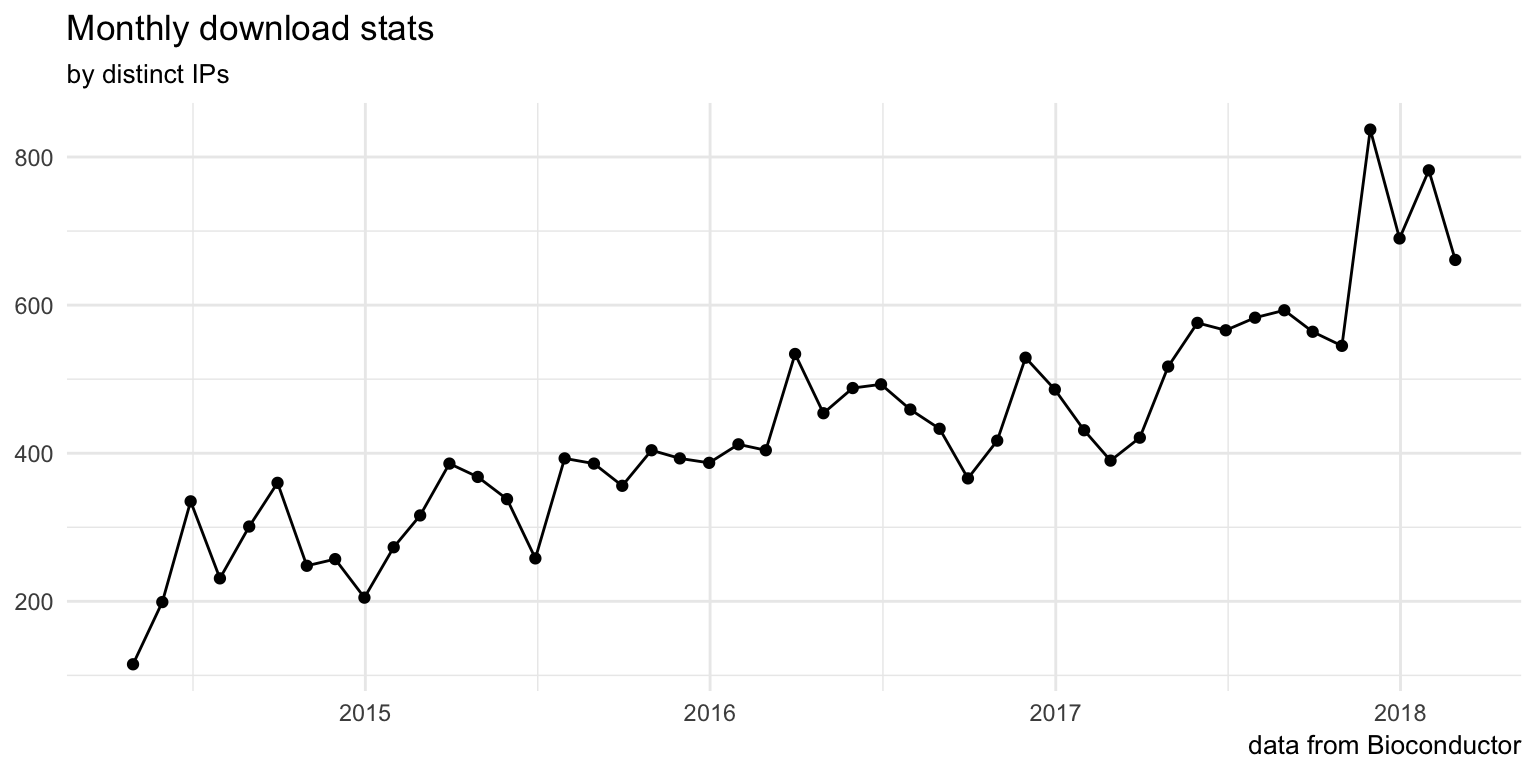
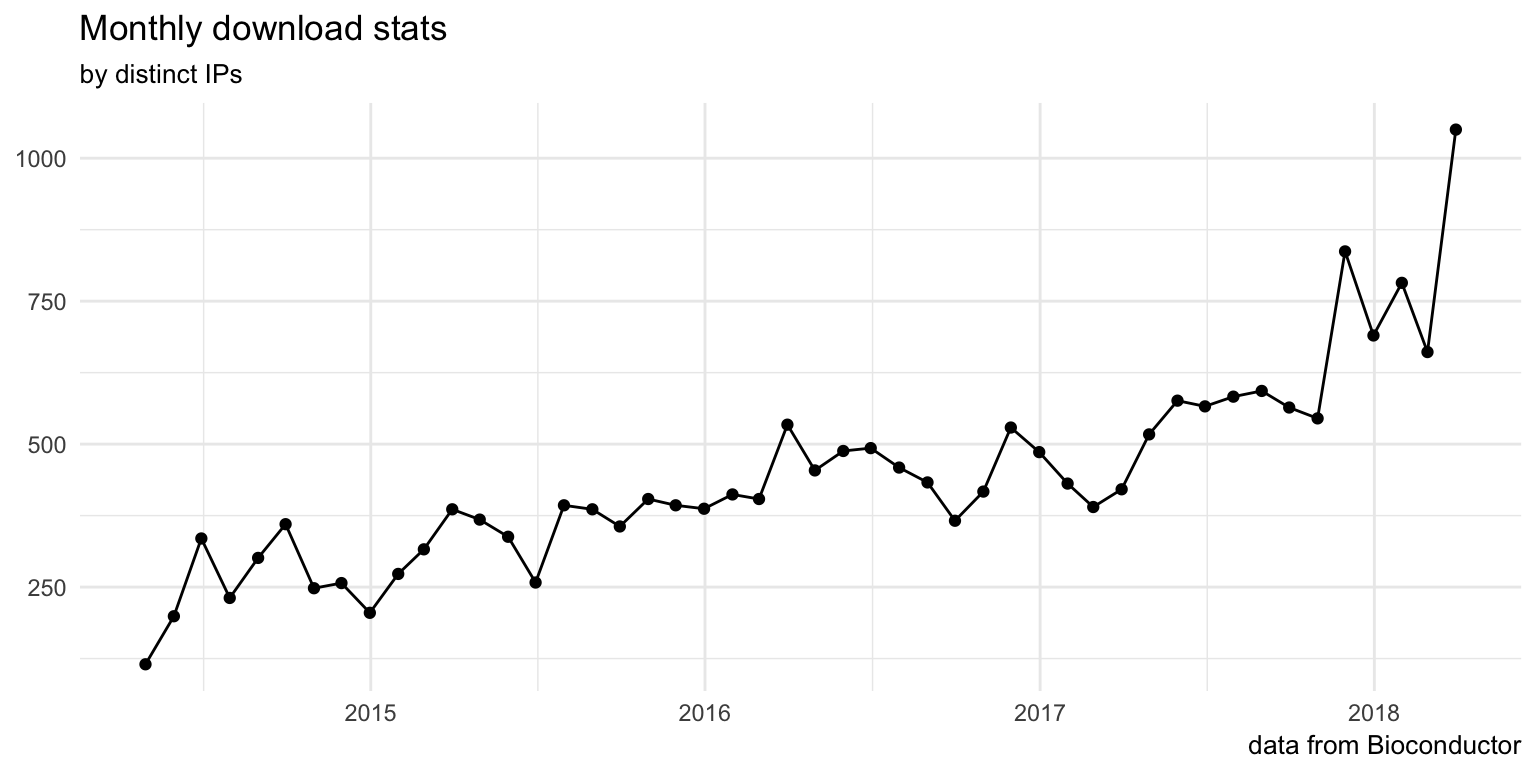
chipseeker citation

diff --git a/wChIPseeker/content/index.html b/wChIPseeker/content/index.html
@@ -9,17 +9,18 @@ weight: 1
 
 <p><img src="https://raw.githubusercontent.com/Bioconductor/BiocStickers/master/ChIPseeker/ChIPseeker.png" height="200" align="right" /></p>
 <p><link rel="stylesheet" href="https://guangchuangyu.github.io/css/font-awesome.min.css"> <link rel="stylesheet" href="https://guangchuangyu.github.io/css/academicons.min.css"></p>
-<p><a href="https://bioconductor.org/packages/ChIPseeker"><img src="https://img.shields.io/badge/release%20version-1.14.2-blue.svg?style=flat" alt="releaseVersion" /></a> <a href="https://github.com/guangchuangyu/ChIPseeker"><img src="https://img.shields.io/badge/devel%20version-1.15.4-blue.svg?style=flat" alt="develVersion" /></a> <a href="https://bioconductor.org/packages/stats/bioc/ChIPseeker"><img src="https://img.shields.io/badge/downloads-20573/total-blue.svg?style=flat" alt="total" /></a> <a href="https://bioconductor.org/packages/stats/bioc/ChIPseeker"><img src="https://img.shields.io/badge/downloads-661/month-blue.svg?style=flat" alt="month" /></a></p>
+<p><a href="https://bioconductor.org/packages/ChIPseeker"><img src="https://img.shields.io/badge/release%20version-1.14.2-blue.svg?style=flat" alt="releaseVersion" /></a> <a href="https://github.com/guangchuangyu/ChIPseeker"><img src="https://img.shields.io/badge/devel%20version-1.15.5-blue.svg?style=flat" alt="develVersion" /></a> <a href="https://bioconductor.org/packages/stats/bioc/ChIPseeker"><img src="https://img.shields.io/badge/downloads-21312/total-blue.svg?style=flat" alt="total" /></a> <a href="https://bioconductor.org/packages/stats/bioc/ChIPseeker"><img src="https://img.shields.io/badge/downloads-1050/month-blue.svg?style=flat" alt="month" /></a></p>
 <p>This package implements functions to retrieve the nearest genes around the peak, annotate genomic region of the peak, statstical methods for estimate the significance of overlap among ChIP peak data sets, and incorporate GEO database for user to compare their own dataset with those deposited in database. The comparison can be used to infer cooperative regulation and thus can be used to generate hypotheses. Several visualization functions are implemented to summarize the coverage of the peak experiment, average profile and heatmap of peaks binding to TSS regions, genomic annotation, distance to TSS, and overlap of peaks or genes.</p>
 <p><code>ChIPseeker</code> is released within the <a href="https://www.bioconductor.org/packages/ChIPseeker">Bioconductor</a> project and the source code is hosted on <a href="https://github.com/GuangchuangYu/ChIPseeker"><i class="fa fa-github fa-lg"></i> GitHub</a>.</p>
 <div id="author" class="section level2">
 <h2><i class="fa fa-user"></i> Author</h2>
 <p>Guangchuang Yu, School of Public Health, The University of Hong Kong.</p>
+<p><a href="https://saythanks.io/to/GuangchuangYu"><img src="https://img.shields.io/badge/say-thanks-ff69b4.svg" alt="saythanks" /></a> <a href="https://guangchuangyu.github.io/blog_images/biobabble.jpg"><embed src="https://img.shields.io/badge/follow%20me%20on-微信-green.svg?style=flat" /></a> <a href="https://guangchuangyu.github.io/blog_images/pay_qrcode.png"><embed src="https://img.shields.io/badge/打赏-支付宝/微信-green.svg?style=flat" /></a></p>
 </div>
 <div id="citation" class="section level2">
 <h2><i class="fa fa-book"></i> Citation</h2>
 <p>Please cite the following article when using <code>ChIPseeker</code>:</p>
-<p><a href="http://dx.doi.org/10.1093/bioinformatics/btv145"><img src="https://img.shields.io/badge/doi-10.1093/bioinformatics/btv145-blue.svg?style=flat" alt="doi" /></a> <a href="https://www.altmetric.com/details/3781087"><img src="https://img.shields.io/badge/Altmetric-32-blue.svg?style=flat" alt="Altmetric" /></a> <a href="https://scholar.google.com.hk/scholar?oi=bibs&amp;hl=en&amp;cites=12053363057899219488"><img src="https://img.shields.io/badge/cited%20by-107-blue.svg?style=flat" alt="citation" /></a></p>
+<p><a href="http://dx.doi.org/10.1093/bioinformatics/btv145"><img src="https://img.shields.io/badge/doi-10.1093/bioinformatics/btv145-blue.svg?style=flat" alt="doi" /></a> <a href="https://www.altmetric.com/details/3781087"><img src="https://img.shields.io/badge/Altmetric-32-blue.svg?style=flat" alt="Altmetric" /></a> <a href="https://scholar.google.com.hk/scholar?oi=bibs&amp;hl=en&amp;cites=12053363057899219488"><img src="https://img.shields.io/badge/cited%20by-113-blue.svg?style=flat" alt="citation" /></a></p>
 <p><strong>Yu G</strong>, Wang LG and He QY<sup>*</sup>. ChIPseeker: an R/Bioconductor package for ChIP peak annotation, comparison and visualization. <strong><em>Bioinformatics</em></strong>, 2015, 31(14):2382-2383.</p>
 </div>
 <div id="featured-articles" class="section level2">

diff --git a/docs/ChIPseeker/index.html b/docs/ChIPseeker/index.html
@@ -288,17 +288,18 @@
 
 			<p><img src="https://raw.githubusercontent.com/Bioconductor/BiocStickers/master/ChIPseeker/ChIPseeker.png" height="200" align="right" /></p>
 <p><link rel="stylesheet" href="https://guangchuangyu.github.io/css/font-awesome.min.css"> <link rel="stylesheet" href="https://guangchuangyu.github.io/css/academicons.min.css"></p>
-<p><a href="https://bioconductor.org/packages/ChIPseeker"><img src="https://img.shields.io/badge/release%20version-1.14.2-blue.svg?style=flat" alt="releaseVersion" /></a> <a href="https://github.com/guangchuangyu/ChIPseeker"><img src="https://img.shields.io/badge/devel%20version-1.15.4-blue.svg?style=flat" alt="develVersion" /></a> <a href="https://bioconductor.org/packages/stats/bioc/ChIPseeker"><img src="https://img.shields.io/badge/downloads-20573/total-blue.svg?style=flat" alt="total" /></a> <a href="https://bioconductor.org/packages/stats/bioc/ChIPseeker"><img src="https://img.shields.io/badge/downloads-661/month-blue.svg?style=flat" alt="month" /></a></p>
+<p><a href="https://bioconductor.org/packages/ChIPseeker"><img src="https://img.shields.io/badge/release%20version-1.14.2-blue.svg?style=flat" alt="releaseVersion" /></a> <a href="https://github.com/guangchuangyu/ChIPseeker"><img src="https://img.shields.io/badge/devel%20version-1.15.5-blue.svg?style=flat" alt="develVersion" /></a> <a href="https://bioconductor.org/packages/stats/bioc/ChIPseeker"><img src="https://img.shields.io/badge/downloads-21312/total-blue.svg?style=flat" alt="total" /></a> <a href="https://bioconductor.org/packages/stats/bioc/ChIPseeker"><img src="https://img.shields.io/badge/downloads-1050/month-blue.svg?style=flat" alt="month" /></a></p>
 <p>This package implements functions to retrieve the nearest genes around the peak, annotate genomic region of the peak, statstical methods for estimate the significance of overlap among ChIP peak data sets, and incorporate GEO database for user to compare their own dataset with those deposited in database. The comparison can be used to infer cooperative regulation and thus can be used to generate hypotheses. Several visualization functions are implemented to summarize the coverage of the peak experiment, average profile and heatmap of peaks binding to TSS regions, genomic annotation, distance to TSS, and overlap of peaks or genes.</p>
 <p><code>ChIPseeker</code> is released within the <a href="https://www.bioconductor.org/packages/ChIPseeker">Bioconductor</a> project and the source code is hosted on <a href="https://github.com/GuangchuangYu/ChIPseeker"><i class="fa fa-github fa-lg"></i> GitHub</a>.</p>
 <div id="author" class="section level2">
 <h2><i class="fa fa-user"></i> Author</h2>
 <p>Guangchuang Yu, School of Public Health, The University of Hong Kong.</p>
+<p><a href="https://saythanks.io/to/GuangchuangYu"><img src="https://img.shields.io/badge/say-thanks-ff69b4.svg" alt="saythanks" /></a> <a href="https://guangchuangyu.github.io/blog_images/biobabble.jpg"><embed src="https://img.shields.io/badge/follow%20me%20on-微信-green.svg?style=flat" /></a> <a href="https://guangchuangyu.github.io/blog_images/pay_qrcode.png"><embed src="https://img.shields.io/badge/打赏-支付宝/微信-green.svg?style=flat" /></a></p>
 </div>
 <div id="citation" class="section level2">
 <h2><i class="fa fa-book"></i> Citation</h2>
 <p>Please cite the following article when using <code>ChIPseeker</code>:</p>
-<p><a href="http://dx.doi.org/10.1093/bioinformatics/btv145"><img src="https://img.shields.io/badge/doi-10.1093/bioinformatics/btv145-blue.svg?style=flat" alt="doi" /></a> <a href="https://www.altmetric.com/details/3781087"><img src="https://img.shields.io/badge/Altmetric-32-blue.svg?style=flat" alt="Altmetric" /></a> <a href="https://scholar.google.com.hk/scholar?oi=bibs&amp;hl=en&amp;cites=12053363057899219488"><img src="https://img.shields.io/badge/cited%20by-107-blue.svg?style=flat" alt="citation" /></a></p>
+<p><a href="http://dx.doi.org/10.1093/bioinformatics/btv145"><img src="https://img.shields.io/badge/doi-10.1093/bioinformatics/btv145-blue.svg?style=flat" alt="doi" /></a> <a href="https://www.altmetric.com/details/3781087"><img src="https://img.shields.io/badge/Altmetric-32-blue.svg?style=flat" alt="Altmetric" /></a> <a href="https://scholar.google.com.hk/scholar?oi=bibs&amp;hl=en&amp;cites=12053363057899219488"><img src="https://img.shields.io/badge/cited%20by-113-blue.svg?style=flat" alt="citation" /></a></p>
 <p><strong>Yu G</strong>, Wang LG and He QY<sup>*</sup>. ChIPseeker: an R/Bioconductor package for ChIP peak annotation, comparison and visualization. <strong><em>Bioinformatics</em></strong>, 2015, 31(14):2382-2383.</p>
 </div>
 <div id="featured-articles" class="section level2">

diff --git a/wChIPseeker/content/featured-articles/index.html b/wChIPseeker/content/featured-articles/index.html
@@ -10,6 +10,11 @@ weight: 30
 <p><a href="https://github.com/GuangchuangYu/featured_img">Let us know</a> if you have published using <code>ChIPseeker</code> and your publication will be featured here.</p>
 <p><img src="/featured-articles/index_files/figure-html/citation-1.png" width="768" /></p>
 <div id="section" class="section level2">
+<h2><i class="fa fa-calendar"></i> 2018</h2>
+<p><a href="http://journals.plos.org/plospathogens/article?id=10.1371/journal.ppat.1006954">HSV-1-induced disruption of transcription termination resembles a cellular stress response but selectively increases chromatin accessibility downstream of genes</a>. <strong><em>PLoS pathogens</em></strong>. 2018, 14(3):e1006954.</p>
+<p><a href="https://www.nature.com/articles/s41413-018-0011-1">Enhancer variants reveal a conserved transcription factor network governed by PU.1 during osteoclast differentiation</a>. <strong><em>Bone Research</em></strong>. 2018, 6:8.</p>
+</div>
+<div id="section-1" class="section level2">
 <h2><i class="fa fa-calendar"></i> 2017</h2>
 <p><a href="https://doi.org/10.1186/s13059-017-1363-3">Intergenic disease-associated regions are abundant in novel transcripts</a>. <strong><em>Genome Biology</em></strong>. 2017, 18:241.</p>
 <p><a href="https://doi.org/10.1038/nature24678">Promoter-bound METTL3 maintains myeloid leukaemia by m6A-dependent translation control</a>. <strong><em>Nature</em></strong>. 2017.</p>
@@ -28,7 +33,7 @@ weight: 30
 <p><a href="http://www.nature.com/ncb/journal/vaop/ncurrent/full/ncb3471.html">Identification of quiescent and spatially restricted mammary stem cells that are hormone responsive</a>. <strong><em>Nature Cell Biology</em></strong>. 2017, 19:164–176</p>
 <p><a href="http://dx.doi.org/10.1093/nar/gkw1179">Combining ATAC-seq with nuclei sorting for discovery of cis-regulatory regions in plant genomes</a>. <strong><em>Necleic Acids Research</em></strong>. 2017, 45(6):e41</p>
 </div>
-<div id="section-1" class="section level2">
+<div id="section-2" class="section level2">
 <h2><i class="fa fa-calendar"></i> 2016</h2>
 <p><a href="http://jem.rupress.org/content/early/2016/09/14/jem.20160185.full">Dpy30 is critical for maintaining the identity and function of adult hematopoietic stem cells</a>. <strong><em>The Journal of Experimental Medicine</em></strong>. 2016, 213(11):2349-2364</p>
 <p><a href="https://elifesciences.org/content/5/e17361">Satb2 determines miRNA expression and long-term memory in the adult central nervous system</a>. <strong><em>eLife</em></strong>. 2016, 5:e17361</p>
@@ -55,7 +60,7 @@ weight: 30
 <p><a href="http://dx.doi.org/10.1016/j.cmet.2015.11.004">Obesity and Bariatric Surgery Drive Epigenetic Variation of Spermatozoa in Humans</a>. <strong>Cell Metabolism</strong> 2016, 23(2):369-378.</p>
 <p><a href="http://dx.doi.org/10.1039/C5MB00663E">ReactomePA: an R/Bioconductor package for reactome pathway analysis and visualization</a>. <strong><em>Molecular BioSystems</em></strong>. 2016, 12(2):477-479.</p>
 </div>
-<div id="section-2" class="section level2">
+<div id="section-3" class="section level2">
 <h2><i class="fa fa-calendar"></i> 2015</h2>
 <p><a href="http://dx.doi.org/10.1101/gad.268821.115">Elf5-centered transcription factor hub controls trophoblast stem cell self-renewal and differentiation through stoichiometry-sensitive shifts in target gene networks</a>. <strong>Genes &amp; Development</strong> 2015, 29:2435-2448.</p>
 <p><a href="http://dx.doi.org/10.1074/jbc.M115.668558">Response Element Composition Governs Correlations between Binding Site Affinity and Transcription in Glucocorticoid Receptor Feed-forward Loops</a>. <strong>The Journal of Biological Chemistry</strong> 2015, 290:19756-19769.</p>

diff --git a/docs/ChIPseeker/featured-articles/index.html b/docs/ChIPseeker/featured-articles/index.html
@@ -293,6 +293,11 @@
 <p><a href="https://github.com/GuangchuangYu/featured_img">Let us know</a> if you have published using <code>ChIPseeker</code> and your publication will be featured here.</p>
 <p><img src="../featured-articles/index_files/figure-html/citation-1.png" width="768" /></p>
 <div id="section" class="section level2">
+<h2><i class="fa fa-calendar"></i> 2018</h2>
+<p><a href="http://journals.plos.org/plospathogens/article?id=10.1371/journal.ppat.1006954">HSV-1-induced disruption of transcription termination resembles a cellular stress response but selectively increases chromatin accessibility downstream of genes</a>. <strong><em>PLoS pathogens</em></strong>. 2018, 14(3):e1006954.</p>
+<p><a href="https://www.nature.com/articles/s41413-018-0011-1">Enhancer variants reveal a conserved transcription factor network governed by PU.1 during osteoclast differentiation</a>. <strong><em>Bone Research</em></strong>. 2018, 6:8.</p>
+</div>
+<div id="section-1" class="section level2">
 <h2><i class="fa fa-calendar"></i> 2017</h2>
 <p><a href="https://doi.org/10.1186/s13059-017-1363-3">Intergenic disease-associated regions are abundant in novel transcripts</a>. <strong><em>Genome Biology</em></strong>. 2017, 18:241.</p>
 <p><a href="https://doi.org/10.1038/nature24678">Promoter-bound METTL3 maintains myeloid leukaemia by m6A-dependent translation control</a>. <strong><em>Nature</em></strong>. 2017.</p>
@@ -311,7 +316,7 @@
 <p><a href="http://www.nature.com/ncb/journal/vaop/ncurrent/full/ncb3471.html">Identification of quiescent and spatially restricted mammary stem cells that are hormone responsive</a>. <strong><em>Nature Cell Biology</em></strong>. 2017, 19:164–176</p>
 <p><a href="http://dx.doi.org/10.1093/nar/gkw1179">Combining ATAC-seq with nuclei sorting for discovery of cis-regulatory regions in plant genomes</a>. <strong><em>Necleic Acids Research</em></strong>. 2017, 45(6):e41</p>
 </div>
-<div id="section-1" class="section level2">
+<div id="section-2" class="section level2">
 <h2><i class="fa fa-calendar"></i> 2016</h2>
 <p><a href="http://jem.rupress.org/content/early/2016/09/14/jem.20160185.full">Dpy30 is critical for maintaining the identity and function of adult hematopoietic stem cells</a>. <strong><em>The Journal of Experimental Medicine</em></strong>. 2016, 213(11):2349-2364</p>
 <p><a href="https://elifesciences.org/content/5/e17361">Satb2 determines miRNA expression and long-term memory in the adult central nervous system</a>. <strong><em>eLife</em></strong>. 2016, 5:e17361</p>
@@ -338,7 +343,7 @@
 <p><a href="http://dx.doi.org/10.1016/j.cmet.2015.11.004">Obesity and Bariatric Surgery Drive Epigenetic Variation of Spermatozoa in Humans</a>. <strong>Cell Metabolism</strong> 2016, 23(2):369-378.</p>
 <p><a href="http://dx.doi.org/10.1039/C5MB00663E">ReactomePA: an R/Bioconductor package for reactome pathway analysis and visualization</a>. <strong><em>Molecular BioSystems</em></strong>. 2016, 12(2):477-479.</p>
 </div>
-<div id="section-2" class="section level2">
+<div id="section-3" class="section level2">
 <h2><i class="fa fa-calendar"></i> 2015</h2>
 <p><a href="http://dx.doi.org/10.1101/gad.268821.115">Elf5-centered transcription factor hub controls trophoblast stem cell self-renewal and differentiation through stoichiometry-sensitive shifts in target gene networks</a>. <strong>Genes &amp; Development</strong> 2015, 29:2435-2448.</p>
 <p><a href="http://dx.doi.org/10.1074/jbc.M115.668558">Response Element Composition Governs Correlations between Binding Site Affinity and Transcription in Glucocorticoid Receptor Feed-forward Loops</a>. <strong>The Journal of Biological Chemistry</strong> 2015, 290:19756-19769.</p>
